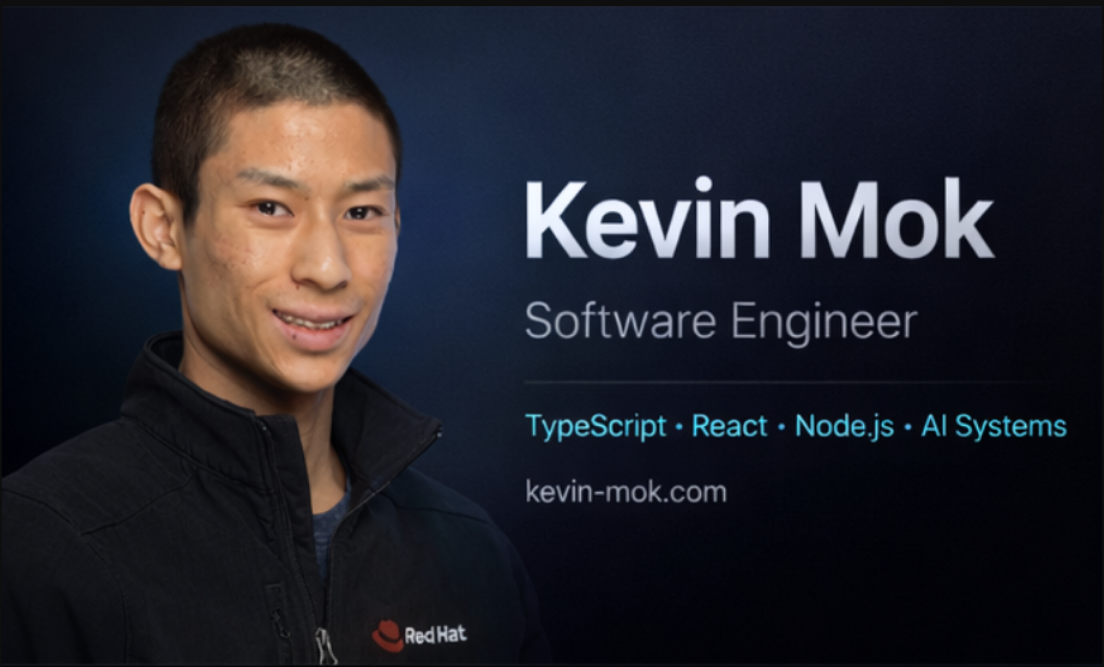
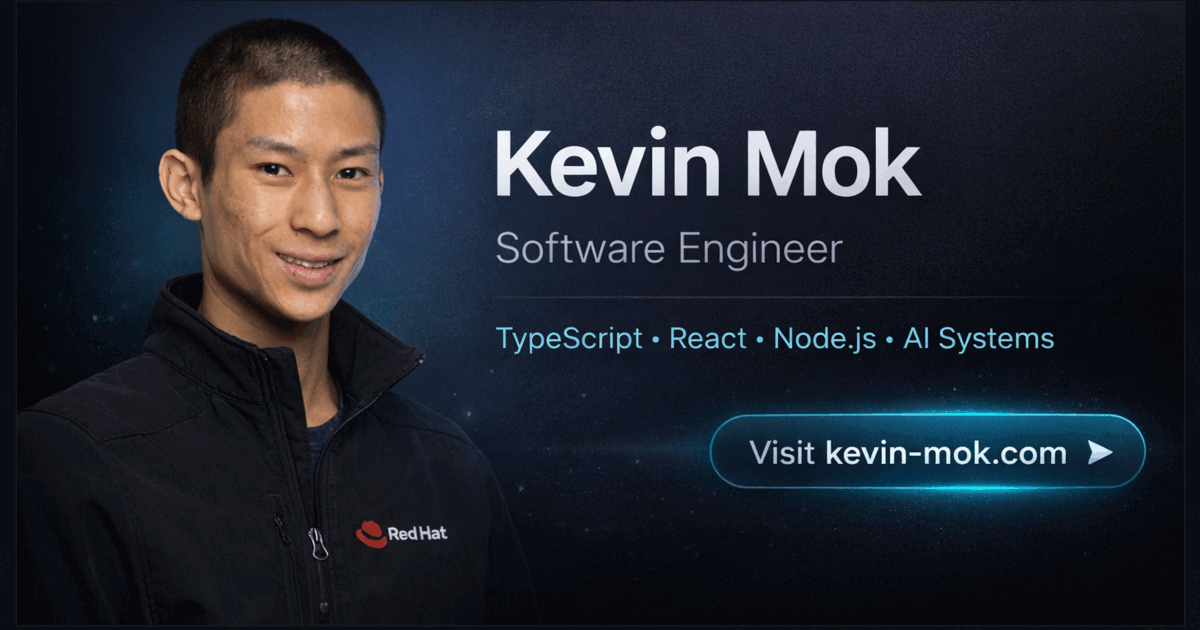
chore(seo): optimize and wire default opengraph image

diff --git a/config/portfolio.config.ts b/config/portfolio.config.ts
@@ -133,9 +133,9 @@ export const portfolioConfig: PortfolioConfig = {
   },
 
   seo: {
-    title: process.env.NEXT_PUBLIC_SEO_TITLE || "Portfolio | Terminal Style",
+    title: process.env.NEXT_PUBLIC_SEO_TITLE || "Kevin Mok | Software Engineer Building AI and Web Systems",
     description: process.env.NEXT_PUBLIC_SEO_DESCRIPTION ||
-      "A modern, terminal-inspired portfolio showcasing projects and expertise in web development and software engineering.",
+      "Explore Kevin Mok's portfolio of full-stack projects, AI systems, and production web apps built with TypeScript, React, Node.js, and cloud tools.",
     keywords: ["Web Development", "Software Engineering", "React", "TypeScript", "Node.js", "Full Stack", "Portfolio"],
     author: process.env.NEXT_PUBLIC_NAME || "Your Name",
     ogImage: hasCustomOgImage ? envOgImage : "/opengraph-image.png",

diff --git a/docs/TODO.md b/docs/TODO.md
@@ -1,6 +1,6 @@
 # TODO
 
-Last updated: 2026-02-18 17:17 UTC
+Last updated: 2026-02-18 17:43 UTC
 
 ## What's Done
 
@@ -19,3 +19,5 @@ Last updated: 2026-02-18 17:17 UTC
 - [x] 2026-02-16 18:35 UTC - Fix mobile wallpaper switching so Settings -> Background controls update the active parallax wallpaper instead of staying pinned to the default image.
 - [x] 2026-02-16 18:38 UTC - Make Web Development resume PDF the default selection on desktop resume view and the default PDF link in mobile Resume CTA.
 - [x] 2026-02-18 16:36 UTC - Add deploy recovery tooling with `rebuild-restart-portfolio.sh` and `docs/DEPLOY_RECOVERY.md` to rebuild, restart `portfolio.service`, and verify Next.js chunk health after deploy drift.
+- [x] 2026-02-18 17:35 UTC - Fix OG metadata quality checks by lengthening SEO title/description, switching fallback OG image paths to `opengraph-image.jpg`, and regenerating a 1200x630 CTA image under WhatsApp size guidance.
+- [x] 2026-02-18 17:43 UTC - Use the new `public/opengraph-image.png` asset as the default OG image by optimizing it in-place to 1200x630 (~305 KB) and repointing fallback metadata/image URLs from `.jpg` to `.png`.

diff --git a/docs/OPEN_GRAPH_IMAGE_PROMPT.md b/docs/OPEN_GRAPH_IMAGE_PROMPT.md
@@ -20,6 +20,7 @@ OpenGraph.xyz recommendations to follow:
 2) Keep important content (face, name, title) centered with generous safe margins to avoid platform cropping.
 3) Prefer high-clarity JPG/PNG output compatibility and keep visual complexity reasonable.
 4) Keep text concise and readable at small preview size.
+5) Include a clear call-to-action phrase in the design (example: "View Projects & Resume").
 
 Composition requirements:
 - Use my headshot as the hero element.
@@ -33,6 +34,7 @@ Text to include:
 - Software Engineer
 - TypeScript • React • Node.js • AI Systems
 - kevin-mok.com
+- View Projects & Resume
 
 Color direction:
 - Background: deep navy / charcoal tones
